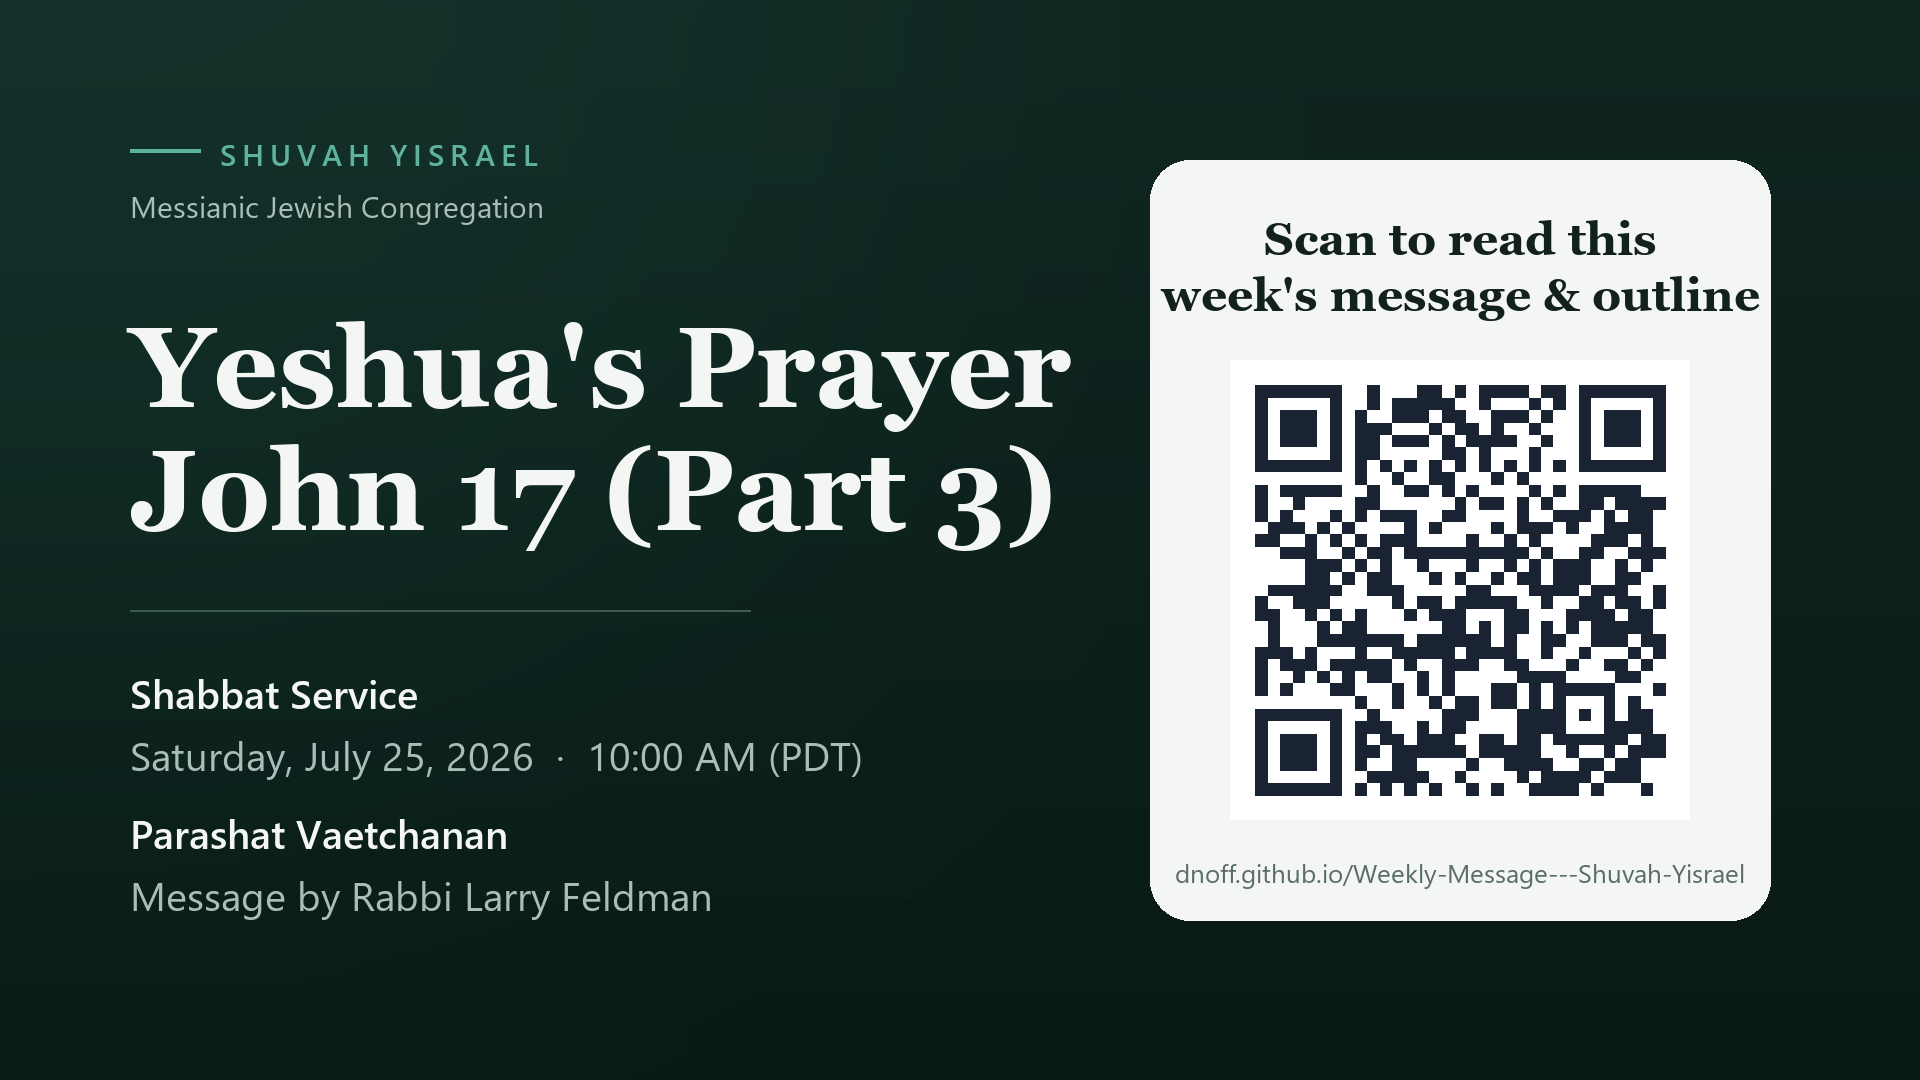
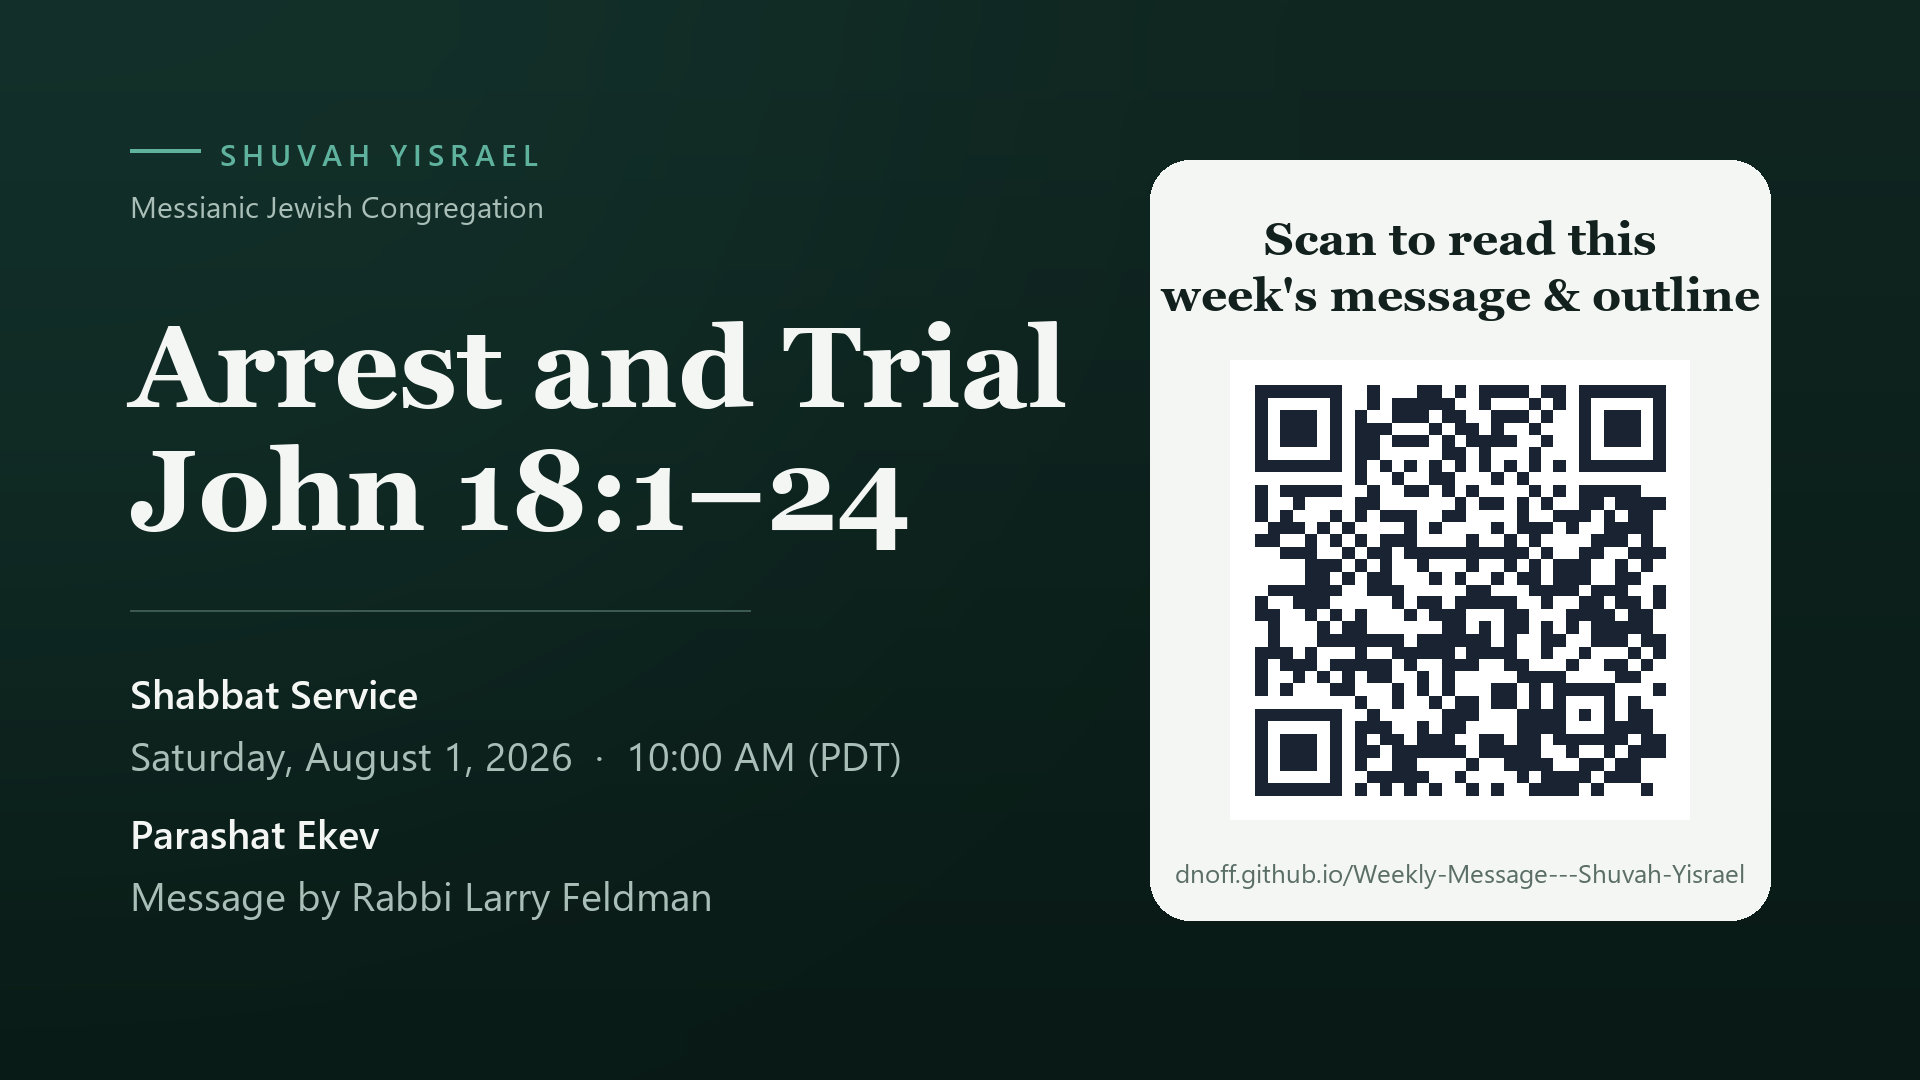
Add Arrest and Trial message and bulletin for August 1. EOF

Changed region(s): [[0.0625, 0.275, 0.5625, 0.5194], [0.1562, 0.6722, 0.4688, 0.7333], [0.1562, 0.7639, 0.2812, 0.7944]]

diff --git a/docs/weeks/index.html b/docs/weeks/index.html
@@ -383,6 +383,12 @@ body {
       <p class="meta">Message &amp; outline for the week</p>
     </header>
     <ul class="week-list"><li>
+      <a href="2026-08-01/">
+        <span class="week-title">Arrest and Trial — John 18:1–24</span>
+        <span class="week-date">August 1, 2026 · 18 Av 5786</span>
+      </a>
+    </li>
+<li>
       <a href="2026-07-25/">
         <span class="week-title">Yeshua's Prayer — John 17 (Part 3)</span>
         <span class="week-date">July 25, 2026 · 11 Av 5786</span>

diff --git a/docs/weeks/2026-08-01/index.html b/docs/weeks/2026-08-01/index.html
@@ -374,9 +374,9 @@ body {
   <div class="bg" aria-hidden="true"></div>
   <main class="sheet">
     <nav class="nav nav-top">
-          <a href="./" class="nav-current">This week</a>
-          <a href="weeks/">Past weeks</a>
-        </nav>
+        <a href="../">This week</a>
+        <a href="./">Past weeks</a>
+      </nav>
     <header class="top">
       <p class="brand">Shuvah Yisrael</p>
       <p class="badge">This week</p>

diff --git a/docs/weeks/2026-07-25/index.html b/docs/weeks/2026-07-25/index.html
@@ -379,7 +379,7 @@ body {
       </nav>
     <header class="top">
       <p class="brand">Shuvah Yisrael</p>
-      <p class="badge">This week</p>
+      <p class="badge badge-archive">Archive</p>
       <h1>Yeshua's Prayer — John 17 (Part 3)</h1>
       <p class="meta">Rabbi Larry Feldman · Week of July 25, 2026 · 11 Av 5786</p>
     </header>

diff --git a/weeks/2026-08-01.md b/weeks/2026-08-01.md
@@ -1,0 +1,166 @@
+---
+title: Arrest and Trial — John 18:1–24
+date: 2026-08-01
+weekOf: August 1, 2026 · 18 Av 5786
+---
+
+## Shabbat at Shuvah Yisrael
+
+**Parashat Ekev** · פרשת עקב  
+**Torah:** Deuteronomy 7:12 – 11:25  
+**Haftarah:** Isaiah 49:14 – 51:3  
+
+**Shabbat Service** — 10:00 AM (PDT)  
+Livestream: [www.shuvahyisrael.org](https://www.shuvahyisrael.org) · YouTube  
+Email: [info@shuvahyisrael.org](mailto:info@shuvahyisrael.org)
+
+### Service Order
+
+1. Songs of Worship  
+2. Hebrew Liturgy  
+3. Scripture Reading: Deuteronomy 10:12–17 and 1 John 5:1–5  
+4. Announcements & Offering  
+5. Songs of Worship *(Children dismissed for Shabbat School)*  
+6. **Message:** Arrest and Trial — John 18:1–24 · Rabbi Larry Feldman  
+7. Closing Benediction  
+
+### Word for the Week · מילת השבוע
+
+> I am the good shepherd; the good shepherd lays down His life for the sheep.  
+> — **John 10:11**
+
+### Upcoming Events
+
+- **Sat, Aug 1** — Shabbat Service 10:00 AM & Livestream Online  
+- **Sun, Aug 2** — Immersion Celebration, 12:00 – 3:30 PM, Orange, CA  
+- **Fri, Aug 7** — Shabbat Dinner, 6:00 – 8:00 PM (sign up in lobby after service)  
+- **Sun, Aug 30** — Sisterhood Breakfast at Mimi’s Café, Irvine, 8:30 AM  
+- **Sat, Sep 12** — Rosh Hashanah Service & Livestream Online, Holiday Nosh 8:50 AM  
+- **Sun, Sep 20** — Erev Yom Kippur Service 7:00 PM & Livestream Online, Benevolence Offering  
+- **Sat, Sep 26** — Sukkot Service 10:00 AM & Livestream Online, Holiday Nosh 8:50 AM, Benevolence Offering  
+
+### Volunteers Needed
+
+1. Camera Operators for Livestream  
+2. Sound Ministry volunteers  
+3. Shabbat School teachers  
+4. Nursery helpers  
+
+---
+
+## Message Outline
+
+*Arrest and Trial — John 18:1–24*  
+Rabbi Larry Feldman · August 1, 2026 · 18 Av 5786
+
+**Main Idea:** We should be willing to follow and identify with Yeshua because He is God and Messiah.
+
+### Opening Scripture
+
+**2 Kings 2:1–2, 4, 6**  
+1 And it came about when the Lord was about to take up Elijah by a whirlwind to heaven, that Elijah went with Elisha from Gilgal. 2 Elijah said to Elisha, “Stay here please, for the Lord has sent me as far as Bethel.” But Elisha said, “As the Lord lives and as you yourself live, I will not leave you.” So they went down to Bethel. 4 Elijah said to him, “Elisha, please stay here, for the Lord has sent me to Jericho.” But he said, “As the Lord lives, and as you yourself live, I will not leave you.” So they came to Jericho. 6 Then Elijah said to him, “Please stay here, for the Lord has sent me to the Jordan.” And he said, “As the Lord lives, and as you yourself live, I will not leave you.” So the two of them went on.
+
+### I. In Yeshua’s arrest, we see He is God, but also a shepherd
+
+#### A. Yeshua and followers in the garden
+
+**John 18:1**  
+1 When Yeshua had spoken these words, He went forth with His disciples over the ravine of the Kidron, where there was a garden, in which He entered with His disciples.
+
+**John 18:2**  
+2 Now Judas also, who was betraying Him, knew the place, for Yeshua had often met there with His disciples.
+
+#### B. Yeshua arrested in the garden shows who He is
+
+**John 18:3**  
+3 Judas then, having received the Roman cohort and officers from the chief priests and the Pharisees, came there with lanterns and torches and weapons.
+
+**John 18:4**  
+4 So Yeshua, knowing all the things that were coming upon Him, went forth and said to them, “Whom do you seek?”
+
+**John 10:11, 15, 18**  
+11 “I am the good shepherd; the good shepherd lays down His life for the sheep. 15 even as the Father knows Me and I know the Father; and I lay down My life for the sheep. 18 No one has taken it away from Me, but I lay it down on My own initiative. I have authority to lay it down, and I have authority to take it up again. This commandment I received from My Father.”
+
+**John 18:5–6**  
+5 They answered Him, “Yeshua the Nazarene.” He said to them, “I am He.” And Judas also, who was betraying Him, was standing with them. 6 So when He said to them, “I am He,” they drew back and fell to the ground.
+
+**Matthew 7:28–29**  
+28 When Yeshua had finished these words, the crowds were amazed at His teaching; 29 for He was teaching them as one having authority, and not as their scribes.
+
+**John 7:45–46**  
+45 The officers then came to the chief priests and Pharisees, and they said to them, “Why did you not bring Him?” 46 The officers answered, “Never has a man spoken the way this man speaks.”
+
+**John 18:7–9**  
+7 Therefore He again asked them, “Whom do you seek?” And they said, “Yeshua the Nazarene.” 8 Yeshua answered, “I told you that I am He; so if you seek Me, let these go their way,” 9 to fulfill the word which He spoke, “Of those whom You have given Me I lost not one.”
+
+**John 6:37–40**  
+37 All that the Father gives Me will come to Me, and the one who comes to Me I will certainly not cast out. 38 For I have come down from heaven, not to do My own will, but the will of Him who sent Me. 39 This is the will of Him who sent Me, that of all that He has given Me I lose nothing, but raise it up on the last day. 40 For this is the will of My Father, that everyone who beholds the Son and believes in Him will have eternal life, and I Myself will raise him up on the last day.”
+
+**John 10:10–11, 14**  
+10 The thief comes only to steal and kill and destroy; I came that they may have life, and have it abundantly. 11 “I am the good shepherd; the good shepherd lays down His life for the sheep. 14 I am the good shepherd, and I know My own and My own know Me,
+
+**John 18:10**  
+10 Simon Peter then, having a sword, drew it and struck the high priest’s slave, and cut off his right ear; and the slave’s name was Malchus.
+
+**Matthew 16:16–19**  
+16 Simon Peter answered, “You are the Messiah, the Son of the living God.” 17 And Yeshua said to him, “Blessed are you, Simon Barjona, because flesh and blood did not reveal this to you, but My Father who is in heaven. 18 I also say to you that you are Peter, and upon this rock I will build My congregation; and the gates of Hades will not overpower it. 19 I will give you the keys of the kingdom of heaven; and whatever you bind on earth shall have been bound in heaven, and whatever you loose on earth shall have been loosed in heaven.”
+
+**John 18:11**  
+11 So Yeshua said to Peter, “Put the sword into the sheath; the cup which the Father has given Me, shall I not drink it?”
+
+**Luke 24:25–27, 44–48**  
+25 And He said to them, “O foolish men and slow of heart to believe in all that the prophets have spoken! 26 Was it not necessary for the Messiah to suffer these things and to enter into His glory?” 27 Then beginning with Moses and with all the prophets, He explained to them the things concerning Himself in all the Scriptures. 44 Now He said to them, “These are My words which I spoke to you while I was still with you, that all things which are written about Me in the Law of Moses and the Prophets and the Psalms must be fulfilled.” 45 Then He opened their minds to understand the Scriptures, 46 and He said to them, “Thus it is written, that the Messiah would suffer and rise again from the dead the third day, 47 and that repentance for forgiveness of sins would be proclaimed in His name to all the nations, beginning from Jerusalem. 48 You are witnesses of these things.
+
+> Therefore: We should be willing to follow and identify with Yeshua because He is God and a shepherd.
+
+### II. In Yeshua’s trials, we see He is Messiah, but also a sacrifice
+
+#### A. Yeshua is a willing, volunteering, sacrificial sacrifice
+
+**John 18:12–14**  
+12 So the Roman cohort and the commander and the officers of the Jews, arrested Yeshua and bound Him, 13 and led Him to Annas first; for he was father-in-law of Caiaphas, who was high priest that year. 14 Now Caiaphas was the one who had advised the Jews that it was expedient for one man to die on behalf of the people.
+
+**John 11:49–53**  
+49 But one of them, Caiaphas, who was high priest that year, said to them, “You know nothing at all, 50 nor do you take into account that it is expedient for you that one man die for the people, and that the whole nation not perish.” 51 Now he did not say this on his own initiative, but being high priest that year, he prophesied that Yeshua was going to die for the nation, 52 and not for the nation only, but in order that He might also gather together into one the children of God who are scattered abroad. 53 So from that day on they planned together to kill Him.
+
+**Isaiah 53:3–6, 8, 10–12**  
+3 He was despised and forsaken of men, a man of sorrows and acquainted with grief; and like one from whom men hide their face He was despised, and we did not esteem Him. 4 Surely our griefs He Himself bore, and our sorrows He carried; yet we ourselves esteemed Him stricken, smitten of God, and afflicted. 5 But He was pierced through for our transgressions, He was crushed for our iniquities; the chastening for our well-being fell upon Him, and by His scourging we are healed. 6 All of us like sheep have gone astray, each of us has turned to his own way; but the Lord has caused the iniquity of us all to fall on Him. 8 By oppression and judgment He was taken away; and as for His generation, who considered That He was cut off out of the land of the living For the transgression of my people, to whom the stroke was due? 10 But the Lord was pleased to crush Him, putting Him to grief; if He would render Himself as a guilt offering, He will see His offspring, He will prolong His days, and the good pleasure of the Lord will prosper in His hand. 11 As a result of the anguish of His soul, He will see it and be satisfied; by His knowledge the Righteous One, My Servant, will justify the many, as He will bear their iniquities. 12 Therefore, I will allot Him a portion with the great, and He will divide the booty with the strong; because He poured out Himself to death, and was numbered with the transgressors; yet He Himself bore the sin of many, and interceded for the transgressors.
+
+#### B. We should be ready, trained, and discipled
+
+**Matthew 26:57–58**  
+57 Those who had seized Yeshua led Him away to Caiaphas, the high priest, where the scribes and the elders were gathered together. 58 But Peter was following Him at a distance as far as the courtyard of the high priest, and entered in, and sat down with the officers to see the outcome.
+
+**John 18:15–18**  
+15 Simon Peter was following Yeshua, and so was another disciple. Now that disciple was known to the high priest, and entered with Yeshua into the court of the high priest, 16 but Peter was standing at the door outside. So the other disciple, who was known to the high priest, went out and spoke to the doorkeeper, and brought Peter in. 17 Then the slave-girl who kept the door said to Peter, “You are not also one of this man’s disciples, are you?” He said, “I am not.” 18 Now the slaves and the officers were standing there, having made a charcoal fire, for it was cold and they were warming themselves; and Peter was also with them, standing and warming himself.
+
+**Luke 22:54–62**  
+54 Having arrested Him, they led Him away and brought Him to the house of the high priest; but Peter was following at a distance. 55 After they had kindled a fire in the middle of the courtyard and had sat down together, Peter was sitting among them. 56 And a servant-girl, seeing him as he sat in the firelight and looking intently at him, said, “This man was with Him too.” 57 But he denied it, saying, “Woman, I do not know Him.” 58 A little later, another saw him and said, “You are one of them too!” But Peter said, “Man, I am not!” 59 After about an hour had passed, another man began to insist, saying, “Certainly this man also was with Him, for he is a Galilean too.” 60 But Peter said, “Man, I do not know what you are talking about.” Immediately, while he was still speaking, a rooster crowed. 61 The Lord turned and looked at Peter. And Peter remembered the word of the Lord, how He had told him, “Before a rooster crows today, you will deny Me three times.” 62 And he went out and wept bitterly.
+
+**Matthew 26:59–68**  
+59 Now the chief priests and the whole Council kept trying to obtain false testimony against Yeshua, so that they might put Him to death. 60 They did not find any, even though many false witnesses came forward. But later on two came forward, 61 and said, “This man stated, ‘I am able to destroy the temple of God and to rebuild it in three days.’” 62 The high priest stood up and said to Him, “Do You not answer? What is it that these men are testifying against You?” 63 But Yeshua kept silent. And the high priest said to Him, “I adjure You by the living God, that You tell us whether You are the Messiah, the Son of God.” 64 Yeshua said to him, “You have said it yourself; nevertheless I tell you, hereafter you will see the Son of Man sitting at the right hand of Power, and coming on the clouds of heaven.” 65 Then the high priest tore his robes and said, “He has blasphemed! What further need do we have of witnesses? Behold, you have now heard the blasphemy; 66 what do you think?” They answered, “He deserves death!” 67 Then they spat in His face and beat Him with their fists; and others slapped Him, 68 and said, “Prophesy to us, You Messiah; who is the one who hit You?”
+
+**Matthew 27:1–2**  
+1 Now when morning came, all the chief priests and the elders of the people conferred together against Yeshua to put Him to death; 2 and they bound Him, and led Him away and delivered Him to Pilate the governor.
+
+**1 Peter 3:14–15**  
+14 But even if you should suffer for the sake of righteousness, you are blessed. And do not fear their intimidation, and do not be troubled, 15 but sanctify Messiah as Lord in your hearts, always being ready to make a defense to everyone who asks you to give an account for the hope that is in you, yet with gentleness and reverence;
+
+#### C. We should know who Yeshua is
+
+**John 18:19–23**  
+19 The high priest then questioned Yeshua about His disciples, and about His teaching. 20 Yeshua answered him, “I have spoken openly to the world; I always taught in synagogues and in the temple, where all the Jews come together; and I spoke nothing in secret. 21 Why do you question Me? Question those who have heard what I spoke to them; they know what I said.” 22 When He had said this, one of the officers standing nearby struck Yeshua, saying, “Is that the way You answer the high priest?” 23 Yeshua answered him, “If I have spoken wrongly, testify of the wrong; but if rightly, why do you strike Me?”
+
+---
+
+### Conclusion
+
+**Main Idea:** We should be willing to follow and identify with Yeshua because He is God and Messiah.
+
+---
+
+### Welcome · ברוך הבא
+
+If you are new to Shuvah Yisrael, we welcome you. Please ask one of the leaders after service, or contact us at [info@shuvahyisrael.org](mailto:info@shuvahyisrael.org).
+
+*Messianic Rabbi: Larry Feldman*
